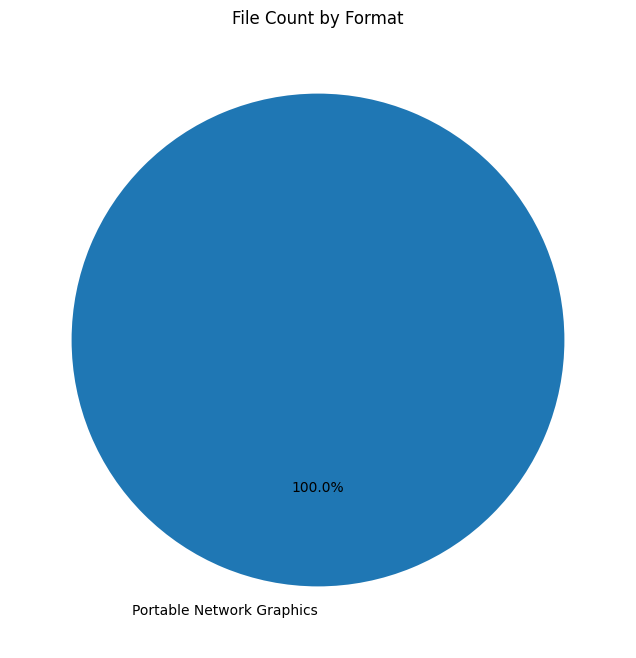
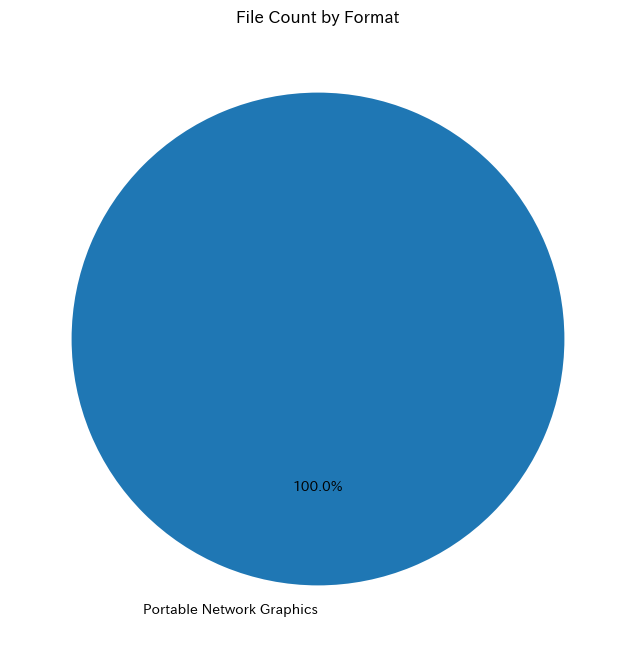
feat: add japanize_matplotlib

Changed region(s): [[0.3585, 0.0, 0.6274, 0.0609], [0.2091, 0.9132, 0.5079, 0.9437], [0.4481, 0.7306, 0.5377, 0.761]]

diff --git a/mets_tools/core.py b/mets_tools/core.py
@@ -16,6 +16,7 @@ from lxml import etree, objectify
 import pandas as pd
 import matplotlib.pyplot as plt
 import re
+import japanize_matplotlib
 
 # %% ../nbs/00_core.ipynb 4
 def convert_size(size):
@@ -249,7 +250,7 @@ class METSFile(object):
         # プロットの準備
         df.plot(kind='bar', stacked=True, figsize=(10, 6))
         plt.title('Event Type Count per File')
-        plt.xlabel('Event Type')
+        plt.xlabel('Event Type ああああ')
         plt.ylabel('Count')
         plt.xticks(rotation=45)
         plt.tight_layout()

diff --git a/README.md b/README.md
@@ -34,6 +34,8 @@ Documentation can be found hosted on this GitHub
 ## How to use
 
 ``` python
+from mets_tools.core import METSFile
+
 local_file = "./test.xml"
 ins = METSFile(local_file)
 ins.parse_mets()
